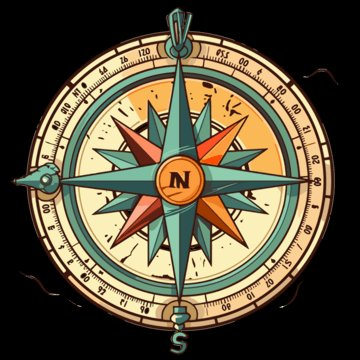
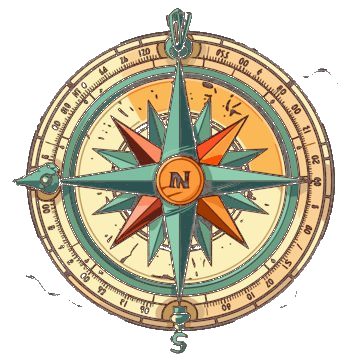
Add files via upload

diff --git a/punkt5.html b/punkt5.html
@@ -6,6 +6,63 @@
   <title>Station 5</title>
   <link href="https://fonts.googleapis.com/css2?family=Pirata+One&display=swap" rel="stylesheet">
   <link rel="stylesheet" href="style.css">
+  <style>
+    .compass-box {
+      background: #f3e5ab;
+      border-radius: 15px;
+      padding: 20px;
+      margin: 15px 0;
+      border-left: 6px solid #ffb703;
+    }
+    .compass-circle {
+      width: 160px;
+      height: 160px;
+      border: 4px solid #5a3e1b;
+      border-radius: 50%;
+      margin: 15px auto;
+      position: relative;
+      background: #fdf6e3;
+    }
+    .compass-needle {
+      position: absolute;
+      top: 50%;
+      left: 50%;
+      width: 4px;
+      height: 60px;
+      background: linear-gradient(to top, #ccc 50%, #c0392b 50%);
+      transform-origin: bottom center;
+      transform: translateX(-50%) translateY(-100%) rotate(0deg);
+      border-radius: 2px;
+      transition: transform 0.3s ease;
+    }
+    .compass-label {
+      position: absolute;
+      font-weight: bold;
+      font-size: 14px;
+      color: #5a3e1b;
+    }
+    .compass-label.n { top: 5px; left: 50%; transform: translateX(-50%); color: #c0392b; }
+    .compass-label.s { bottom: 5px; left: 50%; transform: translateX(-50%); }
+    .compass-label.e { right: 8px; top: 50%; transform: translateY(-50%); }
+    .compass-label.w { left: 8px; top: 50%; transform: translateY(-50%); }
+    .compass-heading { font-size: 16px; font-weight: bold; margin-top: 10px; }
+    .compass-btn {
+      padding: 12px 20px;
+      font-size: 16px;
+      border: 2px solid #5a3e1b;
+      border-radius: 12px;
+      background: #f3e5ab;
+      cursor: pointer;
+      margin-top: 10px;
+    }
+    .compass-tips {
+      text-align: left;
+      font-size: 14px;
+      line-height: 1.6;
+      margin-top: 12px;
+      color: #5a3e1b;
+    }
+  </style>
 </head>
 <body>
 
@@ -21,7 +78,8 @@
 
     <p class="story">
       🧭 Hier machen der See und der Weg eine scharfe Kurve!
-      Setzt euch kurz auf die schattige Bank und beobachtet, in welche Richtung der Weg weiterführt.
+      Setzt euch kurz auf die schattige Bank und beobachtet,
+      in welche Richtung der Weg weiterführt.
     </p>
 
     <div class="didyouknow">
@@ -31,8 +89,36 @@
       Das nennt man „unihemisphärischen Schlaf"!
     </div>
 
-    <!-- TODO: Koordinaten durch Vor-Ort-Messung ersetzen -->
-    <button onclick="checkLocation(48.75000, 11.38950, 60)">📍 Standort prüfen</button>
+    <!-- COMPASS HELPER -->
+    <div class="compass-box">
+      <b>🧭 Braucht ihr Hilfe mit den Himmelsrichtungen?</b>
+      <br>
+      <button class="compass-btn" onclick="startCompass()">Kompass öffnen</button>
+
+      <div id="compassWidget" class="hidden">
+        <div class="compass-circle">
+          <span class="compass-label n">N</span>
+          <span class="compass-label s">S</span>
+          <span class="compass-label e">O</span>
+          <span class="compass-label w">W</span>
+          <div class="compass-needle" id="needle"></div>
+        </div>
+        <div class="compass-heading" id="headingText">—</div>
+      </div>
+
+      <div id="compassFallback" class="hidden">
+        <div class="compass-tips">
+          📱 <b>Euer Telefon kann das auch:</b><br>
+          • <b>iPhone:</b> Öffnet die App „Kompass"<br>
+          • <b>Android:</b> Öffnet Google Maps — der blaue Punkt zeigt eure Blickrichtung<br><br>
+          ☀ <b>Ohne Handy:</b> Die Sonne steht mittags im Süden.
+          Wenn ihr ihr den Rücken zuwendet, schaut ihr nach Norden.
+          Links ist Westen, rechts ist Osten.
+        </div>
+      </div>
+    </div>
+
+    <button onclick="checkLocation(48.74667, 11.39056, 50)">📍 Standort prüfen</button>
     <p id="gpsResult"></p>
 
     <div id="questionBox" class="hidden">
@@ -43,14 +129,19 @@
         <button class="answer-btn" onclick="checkButtonAnswer('Nordosten', ['Nordwesten'], 'punkt6.html', 5)">↗ Nordosten</button>
       </div>
       <div id="hintBox" class="hintbox hidden">
-        💡 <b>Hinweis:</b> Steht an der Kurve und schaut, wohin der Weg weitergeht. Die Sonne geht im Westen unter — in welche Richtung zeigt der Weg?
+        💡 <b>Hinweis:</b> Nutzt den Kompass oben oder schaut, wo die Sonne steht.
+        Der Weg führt schräg zwischen Norden und Westen.
       </div>
     </div>
 
     <div id="nextClue" class="hidden">
       <div class="next-box">
         <p class="success">🎉 Genau richtig!</p>
-        <p class="distance-info">Erinnert ihr euch an das bunte Umkleidehaus? Nach 350 Metern findet ihr ein zweites! Genießt die Aussicht am kleinen Strand.</p>
+        <p class="distance-info">
+          Erinnert ihr euch an das bunte Umkleidehaus? Nach 350 Metern
+          (etwa 700 Kinderschritte) findet ihr ein zweites!
+          Genießt die Aussicht am kleinen Strand.
+        </p>
         <a href="punkt6.html"><button>Weiter zu Station 6 →</button></a>
       </div>
     </div>
@@ -64,6 +155,54 @@
 </div>
 
 <script src="game.js"></script>
-<script>checkAccess(4);</script>
+<script>
+checkAccess(4);
+
+function startCompass() {
+  /* iOS 13+ needs permission */
+  if (typeof DeviceOrientationEvent !== 'undefined' &&
+      typeof DeviceOrientationEvent.requestPermission === 'function') {
+    DeviceOrientationEvent.requestPermission()
+      .then(function(state) {
+        if (state === 'granted') {
+          activateCompass();
+        } else {
+          showFallback();
+        }
+      })
+      .catch(function() {
+        showFallback();
+      });
+  } else if ('DeviceOrientationEvent' in window) {
+    activateCompass();
+  } else {
+    showFallback();
+  }
+}
+
+function activateCompass() {
+  document.getElementById("compassWidget").classList.remove("hidden");
+  document.getElementById("compassFallback").classList.remove("hidden");
+
+  window.addEventListener('deviceorientation', function(e) {
+    /* iOS uses webkitCompassHeading, Android uses alpha */
+    let heading = e.webkitCompassHeading || (360 - (e.alpha || 0));
+    heading = Math.round(heading);
+
+    const needle = document.getElementById("needle");
+    needle.style.transform =
+      "translateX(-50%) translateY(-100%) rotate(" + heading + "deg)";
+
+    const dirs = ["N", "NO", "O", "SO", "S", "SW", "W", "NW"];
+    const idx = Math.round(heading / 45) % 8;
+    document.getElementById("headingText").textContent =
+      heading + "° — " + dirs[idx];
+  });
+}
+
+function showFallback() {
+  document.getElementById("compassFallback").classList.remove("hidden");
+}
+</script>
 </body>
 </html>

diff --git a/punkt3.html b/punkt3.html
@@ -21,7 +21,8 @@
 
     <p class="story">
       🎨 Vor euch steht ein bunt bemaltes Umkleidehaus.
-      Schaut es euch genau an — die Bilder darauf verraten euch etwas über den Baggersee!
+      Auf den Wänden und sogar im Inneren haben sich tropische Gäste versteckt.
+      Schaut genau hin — innen und außen!
     </p>
 
     <div class="didyouknow">
@@ -34,21 +35,24 @@
     <p id="gpsResult"></p>
 
     <div id="questionBox" class="hidden">
-      <p><b>Was ist neben dem Schriftzug „Baggersee" auf das Umkleidehaus gemalt?</b></p>
-      <div class="answer-buttons">
-        <button class="answer-btn" onclick="checkButtonAnswer('Blumen', ['Blumen','Palmen'], 'punkt4.html', 3)">🌸 Blumen</button>
-        <button class="answer-btn" onclick="checkButtonAnswer('Palmen', ['Blumen','Palmen'], 'punkt4.html', 3)">🌴 Palmen</button>
-        <button class="answer-btn" onclick="checkButtonAnswer('Anker', ['Blumen','Palmen'], 'punkt4.html', 3)">⚓ Anker</button>
-      </div>
+      <p><b>Wie viele Palmen sind insgesamt auf dem Umkleidehaus gemalt — außen und innen?</b></p>
+      <input id="answer" type="number" inputmode="numeric" placeholder="Zahl">
+      <br>
+      <!-- TODO: Korrekte Palmenzahl einsetzen (aktuell Platzhalter 5) -->
+      <button onclick="checkTextAnswer(['5'], 'punkt4.html', 3)">Antwort prüfen</button>
       <div id="hintBox" class="hintbox hidden">
-        💡 <b>Hinweis:</b> Schaut euch die großen bunten Bilder auf dem Umkleidehaus genau an — was wächst in warmen Ländern?
+        💡 <b>Hinweis:</b> Vergesst nicht, auch die Innenseiten des Umkleidehauses abzusuchen!
+        Nicht nur außen sind Palmen versteckt.
       </div>
     </div>
 
     <div id="nextClue" class="hidden">
       <div class="next-box">
-        <p class="success">🎉 Fantastisch!</p>
-        <p class="distance-info">Steuert Richtung Südwesten. Nach 250 Metern erreicht ihr ein rotes Haus. Dort könnt ihr eine Pause beim Beachvolleyball einlegen!</p>
+        <p class="success">🎉 Fantastisch! Ihr habt alle Palmen gefunden!</p>
+        <p class="distance-info">
+          Steuert Richtung Südwesten. Nach 250 Metern (etwa 500 Kinderschritte)
+          erreicht ihr ein geheimnisvolles rotes Haus.
+        </p>
         <a href="punkt4.html"><button>Weiter zu Station 4 →</button></a>
       </div>
     </div>

diff --git a/punkt4.html b/punkt4.html
@@ -11,7 +11,7 @@
 
 <div class="overlay">
 
-  <div class="header">Station 4 — Das rote Haus</div>
+  <div class="header">Station 4 — Das Geheimnis des roten Hauses</div>
 
   <div class="progress"><div class="progress-bar" style="width:67%"></div></div>
 
@@ -20,9 +20,11 @@
   <div class="card">
 
     <p class="story">
-      🏚 Ihr habt das rote Haus erreicht!
-      Hier kann man nicht nur im See schwimmen — es gibt eine ganz besondere Wassersportmöglichkeit.
-      Schaut euch um und findet heraus, welche!
+      🏚 Das rote Haus am Ufer verbirgt ein Geheimnis!
+      Hier kann man nicht nur schwimmen oder Beachvolleyball spielen —
+      das rote Haus bietet eine ganz besondere Aktivität,
+      die euch tief unter die Wasseroberfläche führt.
+      Schaut euch um und lüftet das Geheimnis!
     </p>
 
     <div class="didyouknow">
@@ -35,7 +37,7 @@
     <p id="gpsResult"></p>
 
     <div id="questionBox" class="hidden">
-      <p><b>Welche besondere Wassersportaktivität kann man am roten Haus machen?</b></p>
+      <p><b>Welche besondere Wassersportaktivität verbirgt sich im roten Haus?</b></p>
       <div class="answer-buttons">
         <button class="answer-btn" onclick="checkButtonAnswer('Tauchen', ['Tauchen'], 'punkt5.html', 4)">🤿 Tauchen</button>
         <button class="answer-btn" onclick="checkButtonAnswer('Segeln', ['Tauchen'], 'punkt5.html', 4)">⛵ Segeln</button>
@@ -48,8 +50,12 @@
 
     <div id="nextClue" class="hidden">
       <div class="next-box">
-        <p class="success">🎉 Richtig!</p>
-        <p class="distance-info">Jetzt wird's spannend! Folgt dem Weg 600 Meter weiter. Dort machen der See und der Weg eine scharfe Kurve. Eine versteckte Bank bietet euch Schatten.</p>
+        <p class="success">🎉 Richtig — das Geheimnis ist gelüftet!</p>
+        <p class="distance-info">
+          Jetzt wird's spannend! Folgt dem Weg 600 Meter weiter
+          (etwa 1.200 Kinderschritte). Dort machen der See und der Weg
+          eine scharfe Kurve. Eine versteckte Bank bietet euch Schatten.
+        </p>
         <a href="punkt5.html"><button>Weiter zu Station 5 →</button></a>
       </div>
     </div>

diff --git a/punkt1.html b/punkt1.html
@@ -11,7 +11,7 @@
 
 <div class="overlay">
 
-  <div class="header">Station 1 — Die steinernen Wächter</div>
+  <div class="header">Station 1 — Die Wächter des Sees</div>
 
   <div class="progress"><div class="progress-bar" style="width:17%"></div></div>
 
@@ -21,7 +21,7 @@
 
     <p class="story">
       🐸 Ihr steht auf dem Spielplatz am See.
-      Hier bewachen steinerne Frösche den Eingang zum Abenteuer.
+      Hier bewachen Frösche den Eingang zum Abenteuer.
       Findet sie und stellt euch zwischen sie!
     </p>
 
@@ -41,14 +41,17 @@
       <button onclick="checkTextAnswer(['2'], 'punkt2.html', 1)">Antwort prüfen</button>
       <div id="hintBox" class="hintbox hidden">
         💡 <b>Hinweis:</b> Schaut euch am Eingang des Spielplatzes genau um —
-        die Frösche sind aus Stein und gar nicht so klein!
+        die Frösche sind gar nicht so klein!
       </div>
     </div>
 
     <div id="nextClue" class="hidden">
       <div class="next-box">
         <p class="success">🎉 Super! Weiter geht's!</p>
-        <p class="distance-info">Folgt dem Uferweg Richtung Westen — nach 170 Metern erreicht ihr das Seehaus.</p>
+        <p class="distance-info">
+          Folgt dem Uferweg Richtung Westen — nach 170 Metern
+          (etwa 350 Kinderschritte) erreicht ihr das Seehaus.
+        </p>
         <a href="punkt2.html"><button>Weiter zu Station 2 →</button></a>
       </div>
     </div>

diff --git a/punkt6.html b/punkt6.html
@@ -27,7 +27,8 @@
 
     <div class="didyouknow">
       🧭 <b>Wusstet ihr, dass…</b><br><br>
-      Libellen können rückwärts fliegen und erreichen Geschwindigkeiten von bis zu 50 km/h?
+      Libellen können rückwärts fliegen und erreichen Geschwindigkeiten von bis zu 50 km/h —
+      das ist schneller, als ihr mit dem Fahrrad fahren könnt!
       Sie sind die besten Flieger der Insektenwelt und leben schon seit über 300 Millionen
       Jahren auf der Erde — noch vor den Dinosauriern!
     </div>
@@ -48,7 +49,11 @@
     <div id="nextClue" class="hidden">
       <div class="next-box">
         <p class="success">🎉 Sehr gut! Ihr habt aufgepasst!</p>
-        <p class="distance-info">Die letzte Etappe! Nur noch 400 Meter bis zum Schatz. An der Kreuzung wartet eine Entscheidung: rechts zum Wildpark, links zum Spielplatz. Aber zuerst — der Schatz!</p>
+        <p class="distance-info">
+          Die letzte Etappe! Nur noch 400 Meter (etwa 800 Kinderschritte) bis zum Schatz.
+          An der Kreuzung wartet eine Entscheidung:
+          rechts zum Wildpark, links zum Spielplatz. Aber zuerst — der Schatz!
+        </p>
         <a href="final.html"><button>🏴☠ Zum Schatz! →</button></a>
       </div>
     </div>

diff --git a/punkt2.html b/punkt2.html
@@ -37,8 +37,7 @@
       <p><b>Wie viele Stufen führen hinauf zur Terrasse des Seehauses?</b></p>
       <input id="answer" type="number" inputmode="numeric" placeholder="Zahl">
       <br>
-      <!-- TODO: '12' ist Platzhalter! Korrekte Stufenzahl einsetzen. -->
-      <button onclick="checkTextAnswer(['12'], 'punkt3.html', 2)">Antwort prüfen</button>
+      <button onclick="checkTextAnswer(['10'], 'punkt3.html', 2)">Antwort prüfen</button>
       <div id="hintBox" class="hintbox hidden">
         💡 <b>Hinweis:</b> Geht zum Eingang des Seehauses und zählt die Stufen von unten bis oben!
       </div>
@@ -47,7 +46,10 @@
     <div id="nextClue" class="hidden">
       <div class="next-box">
         <p class="success">🎉 Gut gemacht!</p>
-        <p class="distance-info">Folgt dem Uferweg weitere 350 Meter. Haltet Ausschau nach einem bunt bemalten Umkleidehaus!</p>
+        <p class="distance-info">
+          Folgt dem Uferweg weitere 350 Meter (etwa 700 Kinderschritte).
+          Haltet Ausschau nach einem bunt bemalten Umkleidehaus!
+        </p>
         <a href="punkt3.html"><button>Weiter zu Station 3 →</button></a>
       </div>
     </div>

diff --git a/final.html b/final.html
@@ -69,7 +69,6 @@
 <script src="game.js"></script>
 
 <script>
-/* Anti-cheat: must have completed all 6 stations */
 checkAccess(6);
 
 function checkFinalLocation() {
@@ -92,10 +91,9 @@ function checkFinalLocation() {
 
   navigator.geolocation.getCurrentPosition(
     function (pos) {
-      /* TODO: Koordinaten ggf. nach Vor-Ort-Messung anpassen */
       const distance = getDistance(
         pos.coords.latitude, pos.coords.longitude,
-        48.75286, 11.38642
+        48.75278, 11.38722
       );
 
       if (distance <= 60) {
